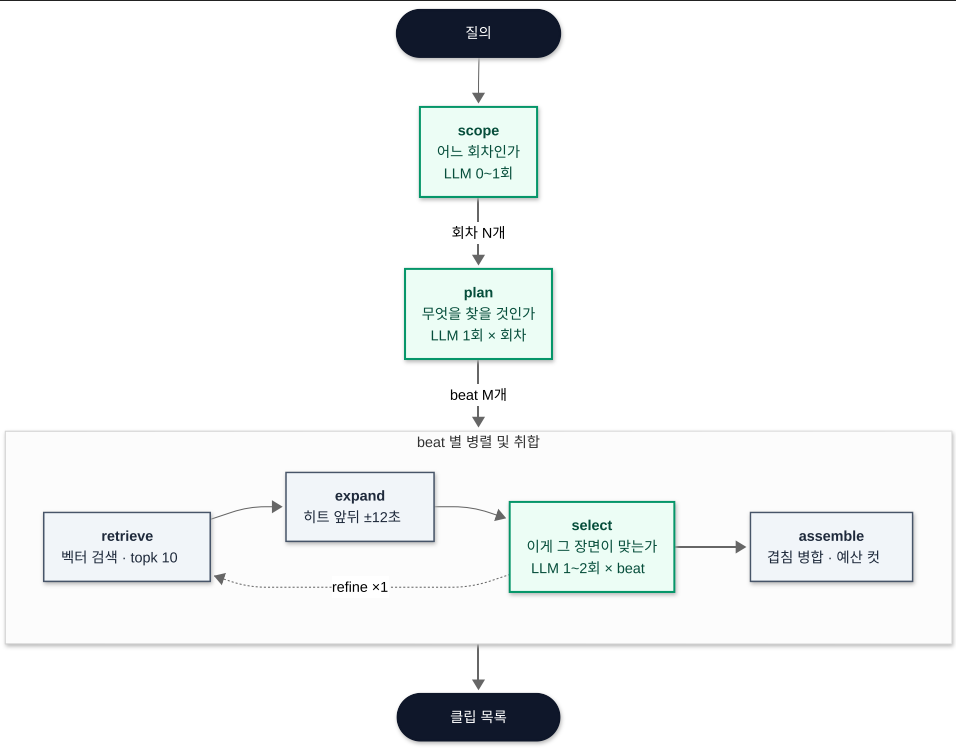
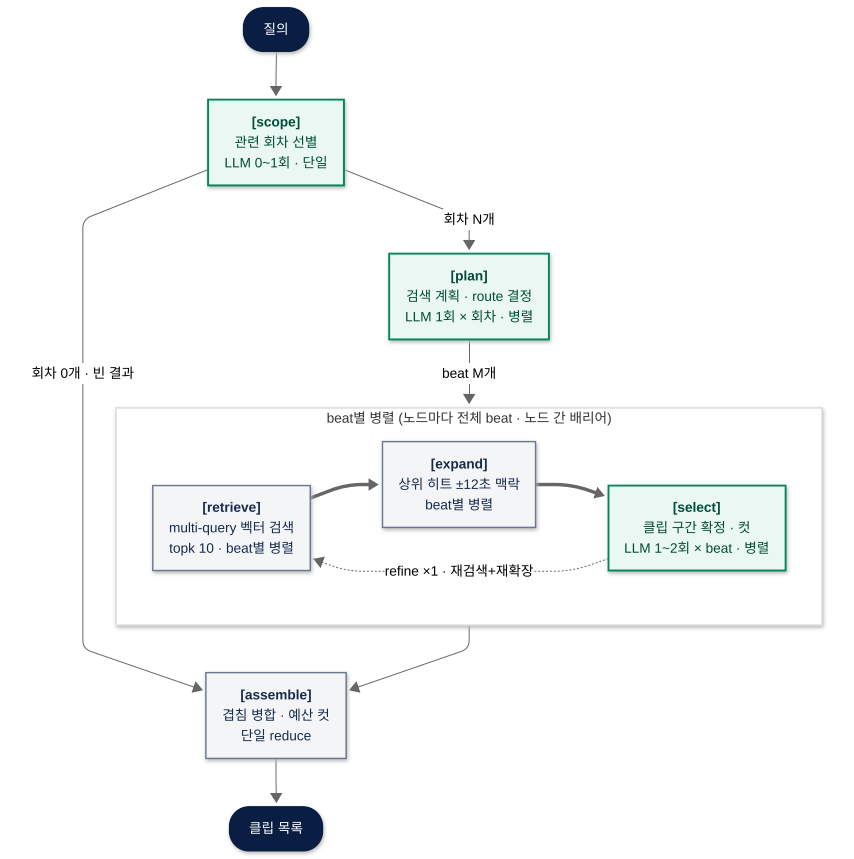
chore: Notion 동기화 2026-07-16 18:00

diff --git a/blog/2026-07-13-07-rag-파이프라인-구축.md b/blog/2026-07-13-07-rag-파이프라인-구축.md
@@ -19,31 +19,46 @@ RAG 를 간단히 표현하면 세 단계라고 할 수 있다.
 2. 의미 단위로 나누는 청킹(Chunking) 벡터화하는 임베딩 (Embedding)
 3. 사실 기반을 완성하는 검색 (Retrieval) 및 답변 (Generating)
 
- 
-
 ![image](/img/blog/07-rag-파이프라인-구축/img-00.png)
 
+
+우리 서비스는 
+
+1.
+
+2.
+
+3.
 
 ---
 
 ### 파이프라인
 
-우리의 파이프라인은 아래와 같다
+:::note
+💡 agent-search process 파이프라인이다.
+
+민트색 부분은 LLM 추론 구간이다.
+:::
 
 ![image](/img/blog/07-rag-파이프라인-구축/img-01.png)
 
-- 민트색: LLM 추론 구간으로, 아래와 같은 프롬프트 입력값이 들어있는 상태이다.  
-  ```graphql
-  [1] scope
-  SCOPE_SYS = """너는 방송 시리즈 검색 플래너다. 요청과 관련 있는 회차의 v_id 만 고른다. {이하 생략}"""
+Langraph 노드별 정리를 아래와 같이 해보았다. 
 
-  [2] plan 
-  PLAN_SYS = """너는 방송 영상 재가공 검색 플래너다. {이하 생략} 클립을 찾기 위한 검색 계획(beats)을 JSON 으로 출력한다 """
+| 노드 | 하는 일 | LLM | 실행 방식 |
+| --- | --- | --- | --- |
+| scope | 요청과 관련된 회차 선별 (제목·줄거리 보고 v_id 고름) | 0\~1회 | 단일 — 한 번에 판단 |
+| plan | 검색 계획 수립  route(pinpoint/structural)  beat별 질의 2\~3개 | 회차 당 1회 | 병렬 — 회차 수만큼 동시 (회차 5개면 5개 동시) |
+| retrieve | beat별 multi-query 벡터 검색 → 중복 제거 → topk 10 | 없음 | 병렬 — beat 수만큼 동시 (beat 6개면 6개 동시) |
+| expand | 상위 4개 히트에 앞뒤 ±12초 맥락 붙이기 | 없음 | 병렬 — beat 수만큼 동시 |
+| select | 클립 구간[start\~end] 확정 (세그먼트 경계 컷), 무관하면 버림 | beat당 1\~2회 | 병렬 — beat 수만큼 동시 |
+| assemble | usable 클립만 겹침 병합 → 예산 컷 → 정렬 | 없음 | 단일 — 다 모아 한 번에 |
 
-  [3] select
-  SELECT_SYS= """"너는 방송 클립 편집자다. beat(찾으려는 장면)과 검색 후보 + 주변 타임라인을 보고
-  그 beat 을 가장 잘 보여주는 클립 1개의 구간을 확정한다.  {이하 생략}"""
-  ```
+- 단일: 그 노드는 요청 당 딱 한번만 실행. 나눠서 돌리는 게 없음
+- 병렬: 그 노드 안에서 여러 개를 동시에 처리 
+
+예를 들어 plan의 "LLM 1회 × 회차 · 병렬"은 — 회차 하나당 LLM을 1번 부르는데, 회차가 5개면 그 5번을 **순서대로가 아니라 동시에** 부른다는 뜻입니다  
+  
+
 
 
 ### 마무리

diff --git a/blog/2026-07-13-07-langgraph-기반-방송-워크플로우-설계.md b/blog/2026-07-13-07-langgraph-기반-방송-워크플로우-설계.md
@@ -10,8 +10,8 @@ last_update:
 
 ---
 
-- 해당 글에서는 이미 설계된 Langraph 이용하여, 방송 서비스를 어떻게 새로 만들지를 보여준다
-- 글에는 기술적인거 아니라, 어떠한 입력을 주고, 어떠한 방송 서비스 만들지만 적기
+- 해당 글에서는  방송 서비스를 어떻게 새로 만들지를 보여준다
+- 글에는 기술적인거 아니라, 사업적인 요소만 적어도 될 듯
 
 <!--truncate-->
 
